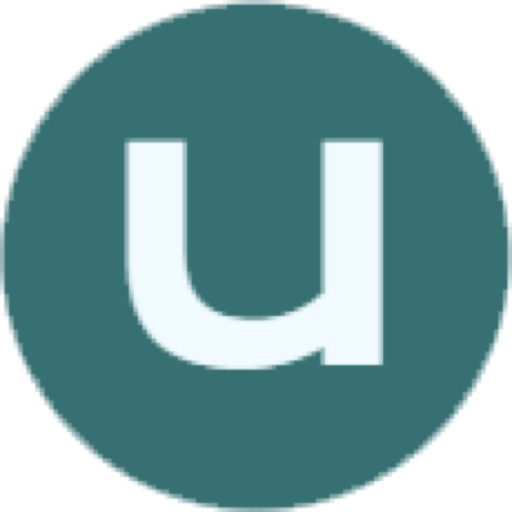
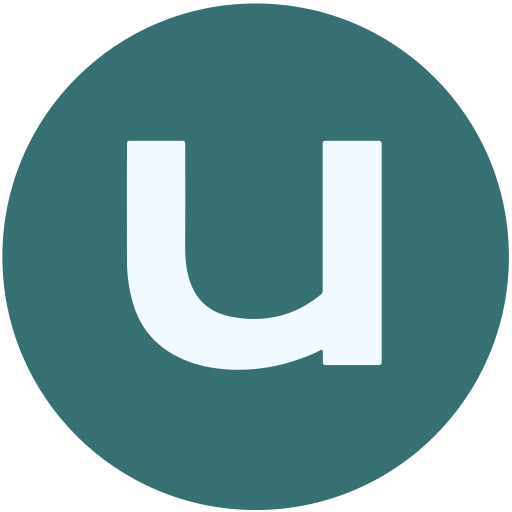
优化logo

diff --git a/src/App.tsx b/src/App.tsx
@@ -126,7 +126,7 @@ const App: React.FC = () => {
             rel="noopener noreferrer"
             className="flex h-10 w-10 items-center justify-center overflow-hidden hover:opacity-80 transition-opacity"
           >
-             <img src="https://theai.do/img/u.png" alt="Logo" className="h-full w-full object-cover" />
+             <img src="/logo.svg" alt="Logo" className="h-full w-full object-cover" />
           </a>
           <div className="hidden sm:block">
             <h1 className="text-lg font-bold tracking-tight text-gray-900 dark:text-white">Nano Banana Pro</h1>

diff --git a/index.html b/index.html
@@ -8,7 +8,7 @@
     <meta name="description" content="Nano Banana Pro在线客户端">
     <link rel="apple-touch-icon" href="/pwa-192x192.png">
     <title>UndyDraw | Nano Banana Pro在线客户端</title>
-    <link rel="icon" href="https://theai.do/img/u.png" />
+    <link rel="icon" href="/logo.svg" type="image/svg+xml" />
     <link href="https://fonts.googleapis.com/css2?family=Inter:wght@300;400;500;600&display=swap" rel="stylesheet">
 </head>
   <body>

diff --git a/vite.config.ts b/vite.config.ts
@@ -16,7 +16,7 @@ export default defineConfig(({ mode }) => {
         tailwindcss(),
         VitePWA({
           registerType: 'autoUpdate',
-          includeAssets: ['favicon.ico', 'apple-touch-icon.png', 'mask-icon.svg'],
+          includeAssets: ['logo.svg', 'pwa-192x192.png', 'pwa-512x512.png'],
           devOptions: {
             enabled: true
           },
